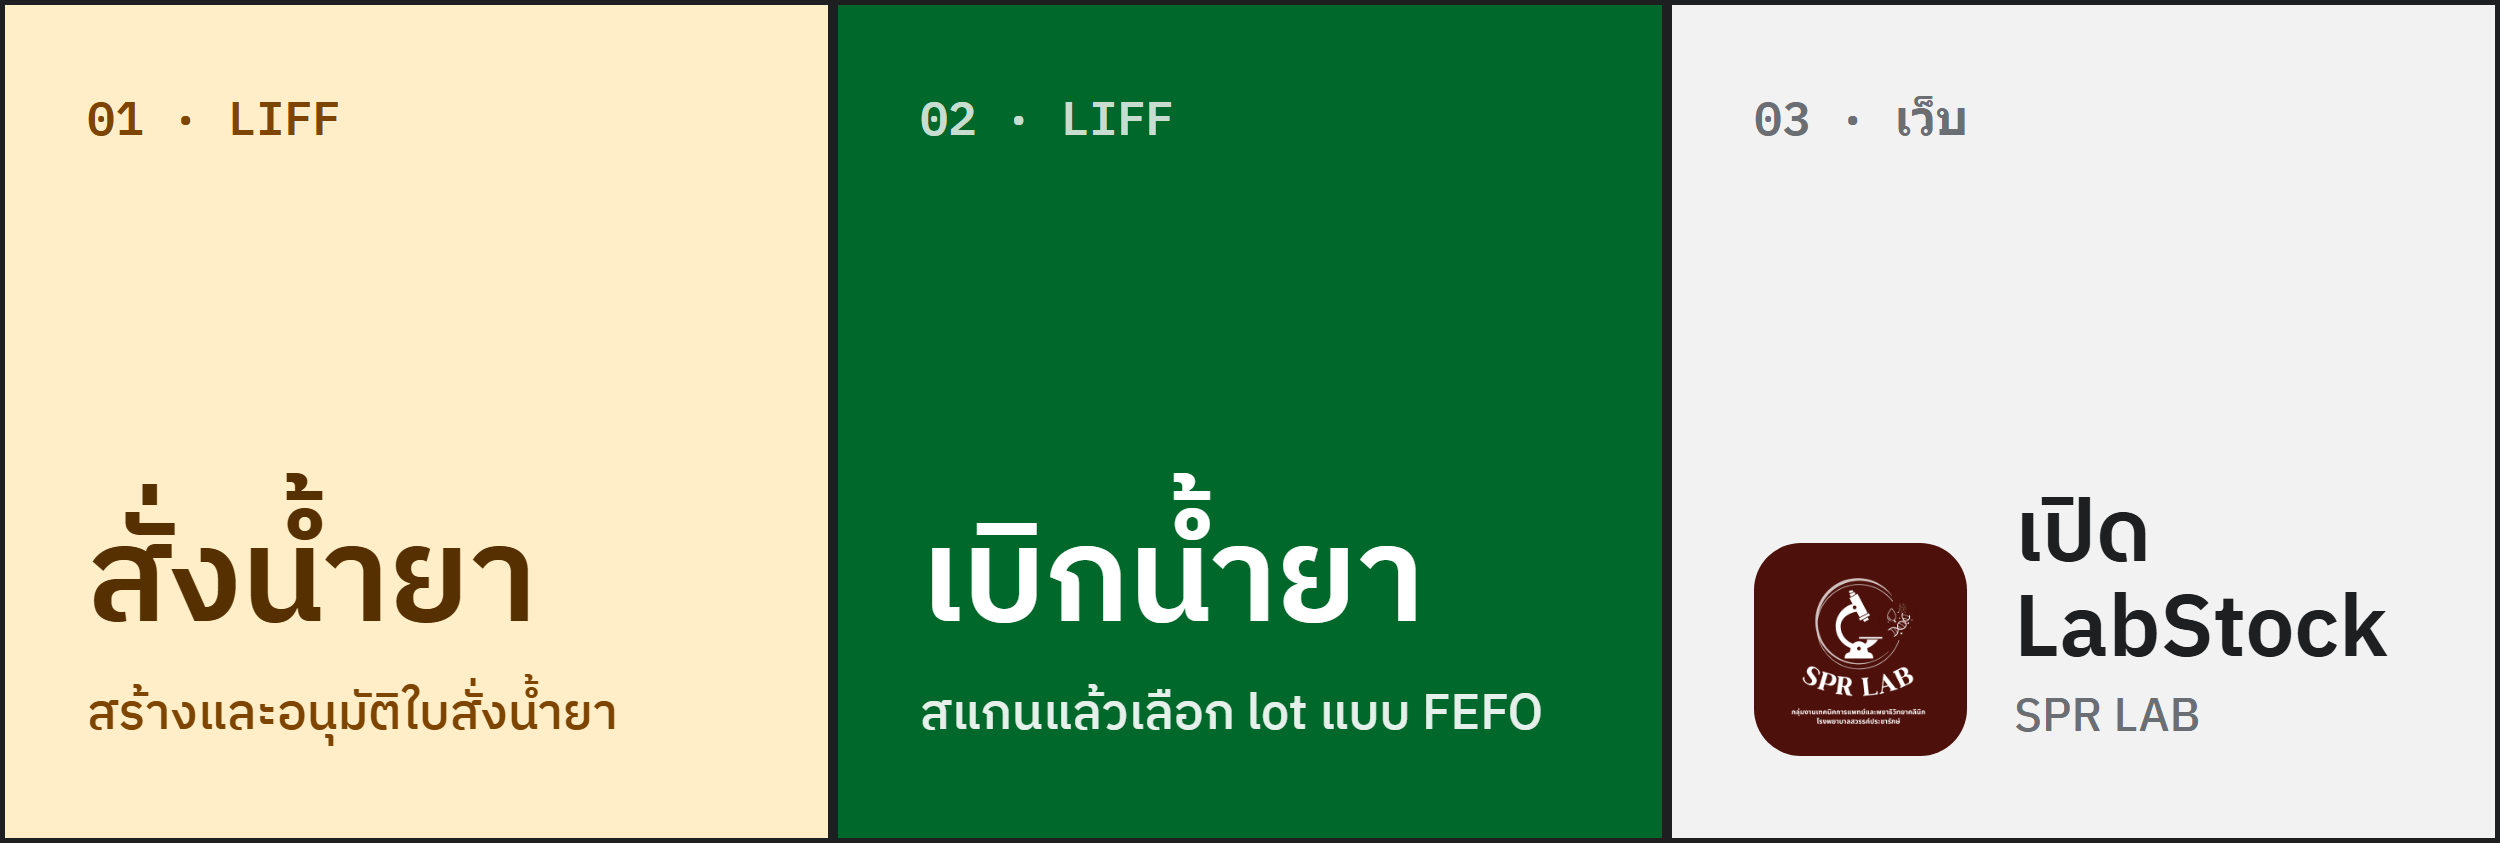
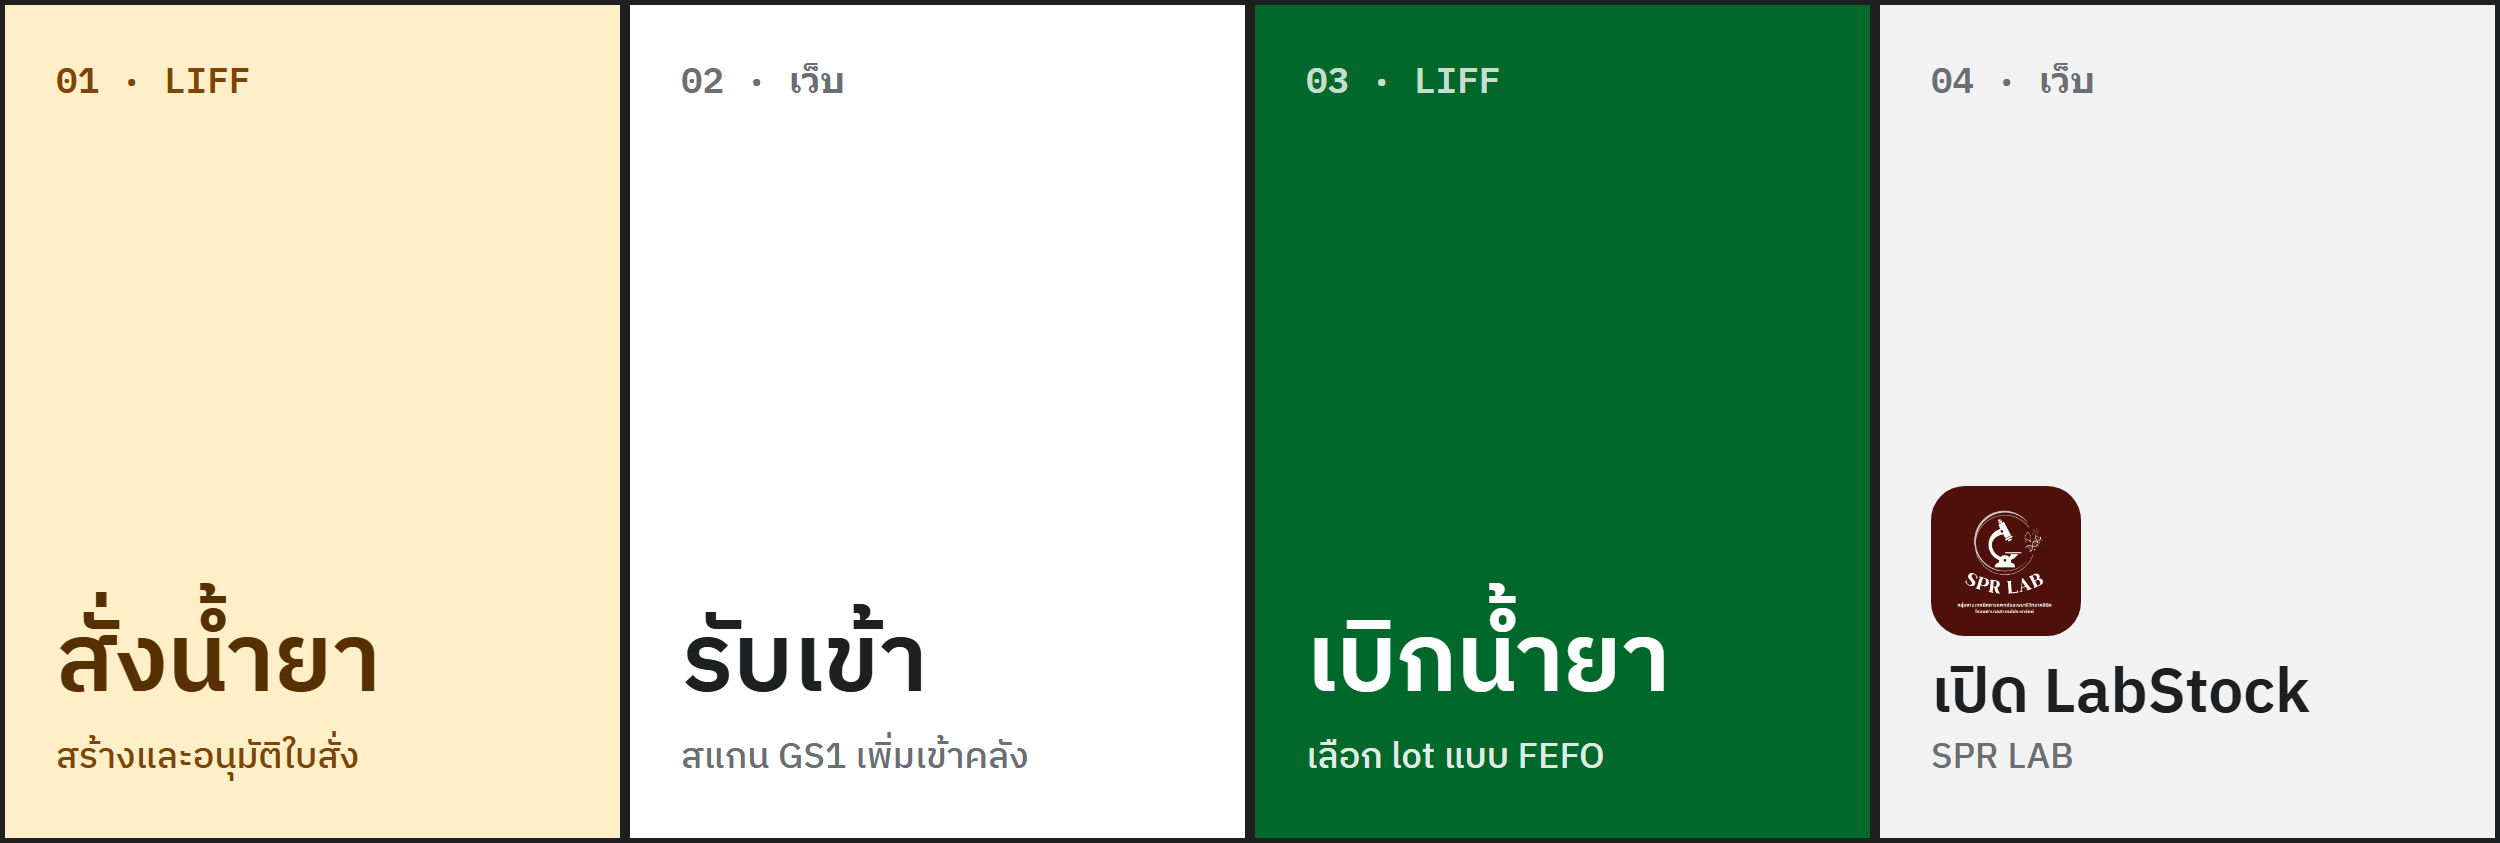
Fix: add the receive button to the Admin/Manager rich menu (4 cells)
Admin and Manager can receive stock but the purchasing menu had no receive button, so the LINE sync removed it for them. The purchasing menu is now order / receive / dispense / open web.

diff --git a/scripts/line-rich-menu/purchasing.html b/scripts/line-rich-menu/purchasing.html
@@ -6,17 +6,21 @@
 <link rel="stylesheet" href="menu.css">
 </head>
 <body>
-<div class="menu three">
+<div class="menu four">
   <div class="cell amber">
     <span class="tag">01 · LIFF</span>
-    <div><div class="title">สั่งน้ำยา</div><div class="sub">สร้างและอนุมัติใบสั่งน้ำยา</div></div>
+    <div><div class="title">สั่งน้ำยา</div><div class="sub">สร้างและอนุมัติใบสั่ง</div></div>
+  </div>
+  <div class="cell">
+    <span class="tag">02 · เว็บ</span>
+    <div><div class="title">รับเข้า</div><div class="sub">สแกน GS1 เพิ่มเข้าคลัง</div></div>
   </div>
   <div class="cell green">
-    <span class="tag">02 · LIFF</span>
-    <div><div class="title">เบิกน้ำยา</div><div class="sub">สแกนแล้วเลือก lot แบบ FEFO</div></div>
+    <span class="tag">03 · LIFF</span>
+    <div><div class="title">เบิกน้ำยา</div><div class="sub">เลือก lot แบบ FEFO</div></div>
   </div>
   <div class="cell ground">
-    <span class="tag">03 · เว็บ</span>
+    <span class="tag">04 · เว็บ</span>
     <div class="brand"><img src="logo-spr-lab.png" alt=""><div><div class="name">เปิด LabStock</div><div class="org">SPR LAB</div></div></div>
   </div>
 </div>

diff --git a/scripts/line-rich-menu/menu.css b/scripts/line-rich-menu/menu.css
@@ -57,3 +57,13 @@ html, body {
 .brand img { width: 213px; height: 213px; border-radius: 47px; }
 .brand .name { font-size: 87px; font-weight: 600; line-height: 1.1; }
 .brand .org { font-size: 47px; color: var(--muted); }
+
+.menu.four { grid-template-columns: repeat(4, 625px); }
+.four .cell { padding: 56px; }
+.four .tag { font-size: 36px; }
+.four .title { font-size: 96px; }
+.four .sub { font-size: 36px; margin-top: 14px; }
+.four .brand { flex-direction: column; align-items: flex-start; gap: 24px; }
+.four .brand img { width: 150px; height: 150px; border-radius: 34px; }
+.four .brand .name { font-size: 62px; }
+.four .brand .org { font-size: 36px; }

diff --git a/LINE_LIFF_ORDERING_ROLLOUT.md b/LINE_LIFF_ORDERING_ROLLOUT.md
@@ -39,7 +39,7 @@ Three menus, one per audience:
 | --- | --- | --- | --- |
 | general | receive (web `/mobile/receive`), dispense (LIFF), open LabStock | `LINE_RECEIVE_RICH_MENU_ID` | roles allowed the `receive` menu |
 | no-receive | dispense (LIFF), open LabStock | `LINE_DISPENSE_RICH_MENU_ID` | other roles (e.g. Operator) and the default menu |
-| purchasing | order (LIFF), dispense (LIFF), open LabStock | `LINE_PURCHASING_RICH_MENU_ID` | Admin, Manager |
+| purchasing | order (LIFF), receive (web `/mobile/receive`), dispense (LIFF), open LabStock | `LINE_PURCHASING_RICH_MENU_ID` | Admin, Manager |
 
 Rollout (each step is separate and nothing is deleted, so the old menu ids remain the rollback):
 
